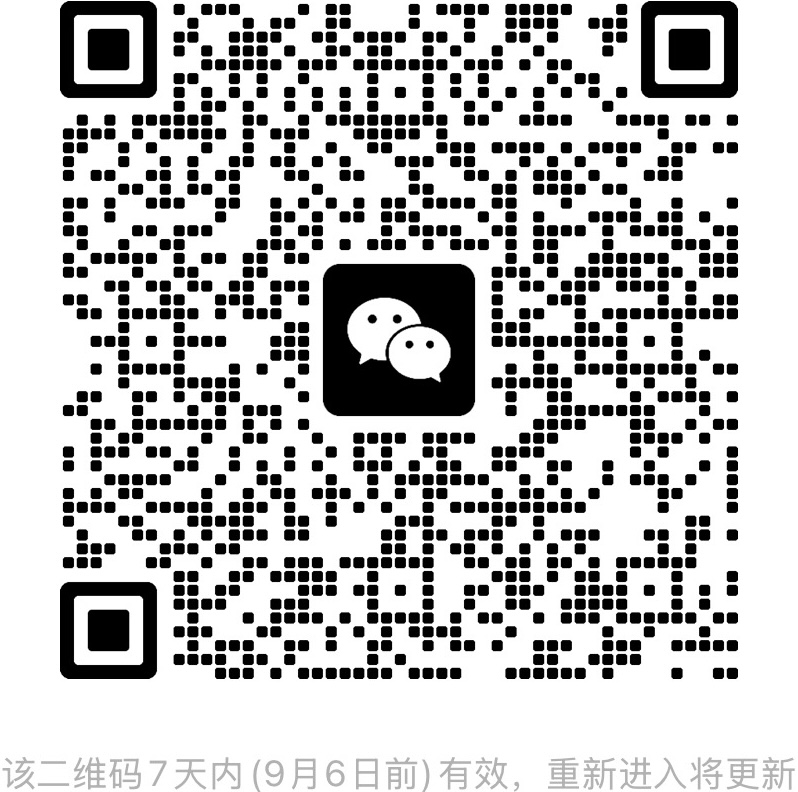
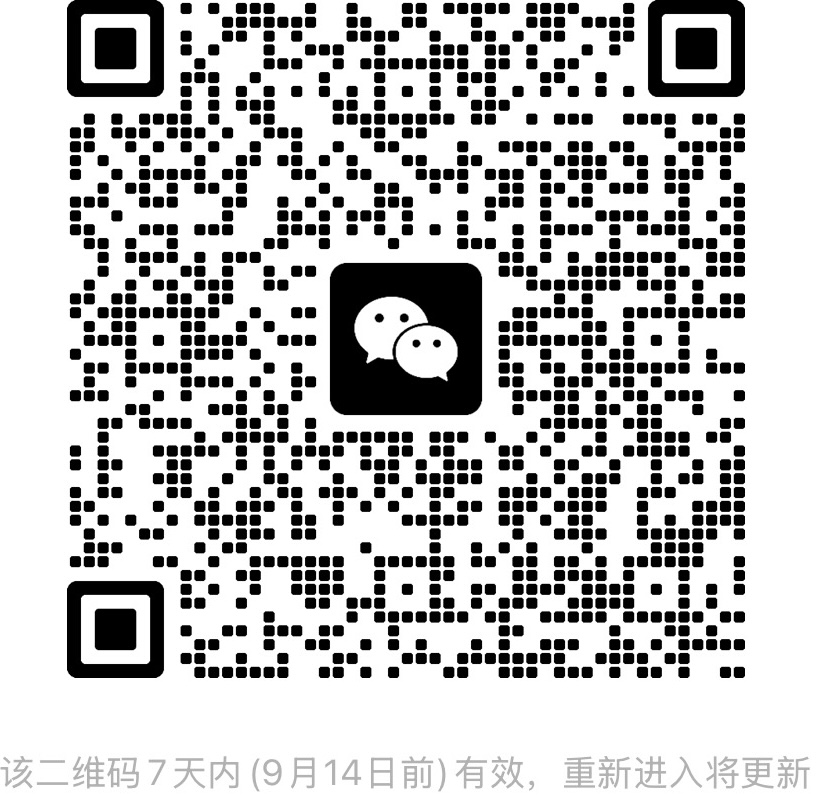
Update wechat group

diff --git a/README.md b/README.md
@@ -10,6 +10,10 @@
 <a href="https://github.com/Agent-One-Lab/AgentFly" target="_blank"><img alt="Static Badge" src="https://img.shields.io/github/stars/Agent-One-Lab/AgentFly?style=for-the-badge&logo=github&color=a2d2ff"></a>
 </p>
 <p align="center">
+<a href="./assets/images/wechat.jpg" target="_blank"><img alt="Static Badge" src="https://img.shields.io/badge/WeChat-%23e9edc9?style=for-the-badge&logo=wechat"></a>
+<a href="https://discord.gg/AyeWXgsB" target="_blank"><img alt="Static Badge" src="https://img.shields.io/badge/discord-%23dedbd2?style=for-the-badge&logo=discord"></a>
+</p>
+<p align="center">
 <img alt="Static Badge" src="https://img.shields.io/badge/Agent%20RL--%23000000?style=social">
 <img alt="Static Badge" src="https://img.shields.io/badge/Multi%20Turn--%23000000?style=social">
 <img alt="Static Badge" src="https://img.shields.io/badge/Multi%20Modal--%23000000?style=social">
